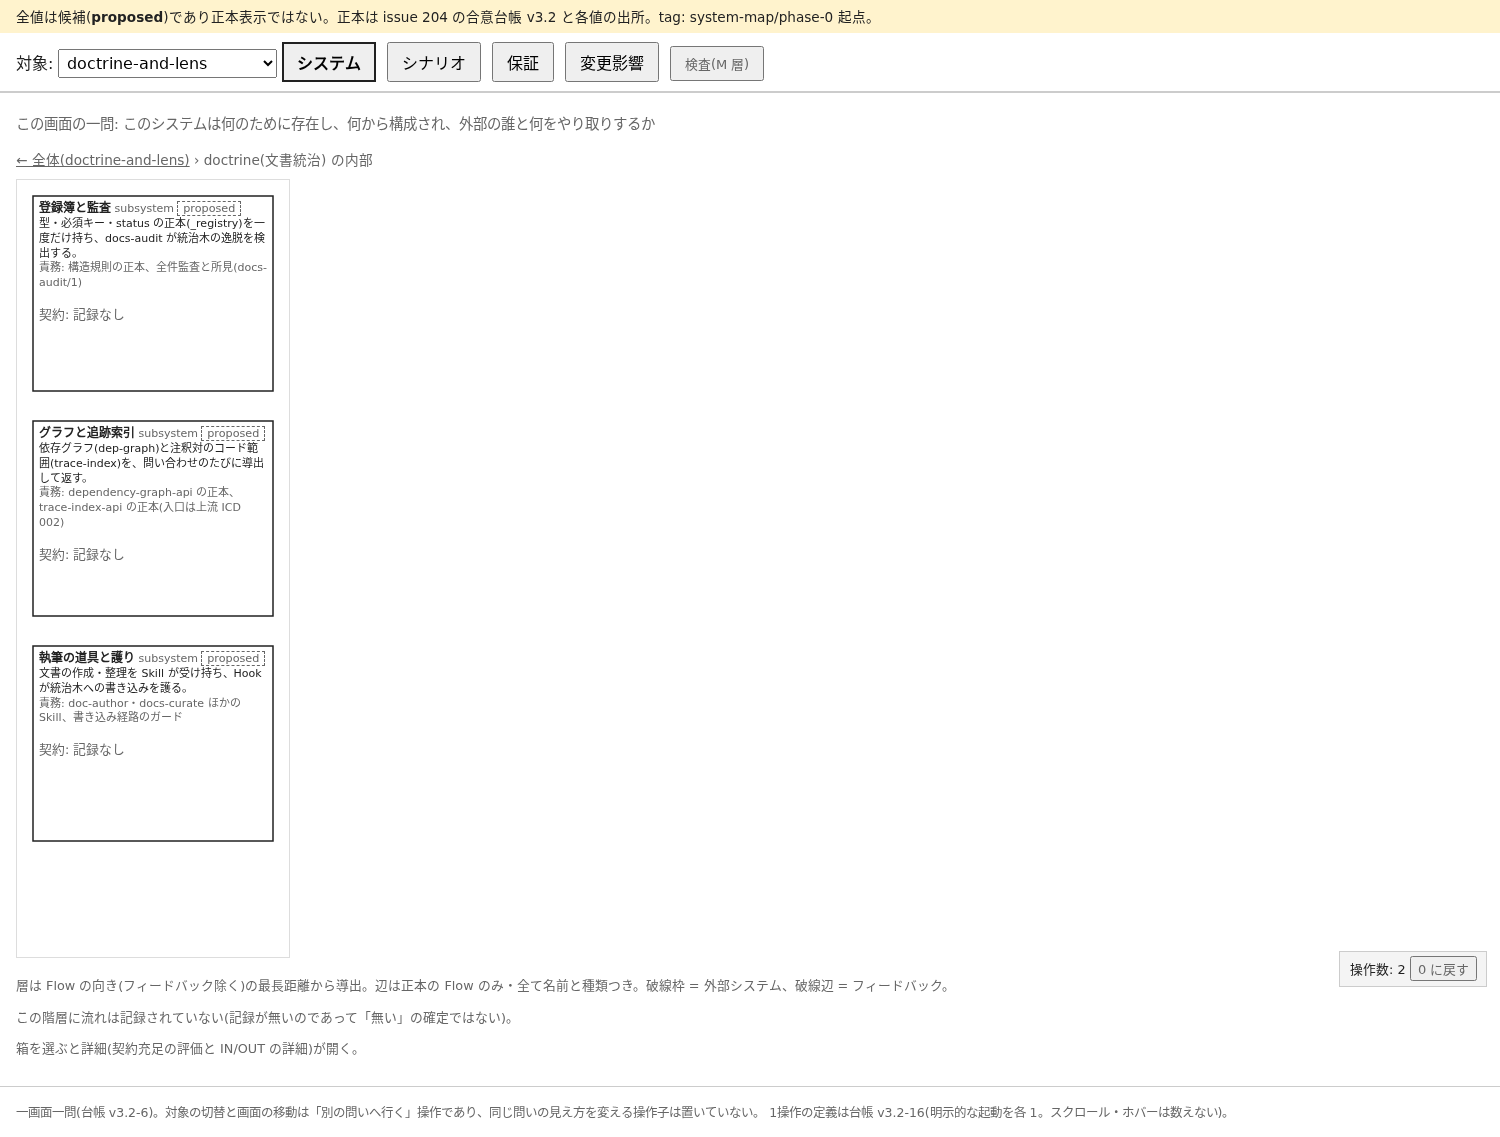
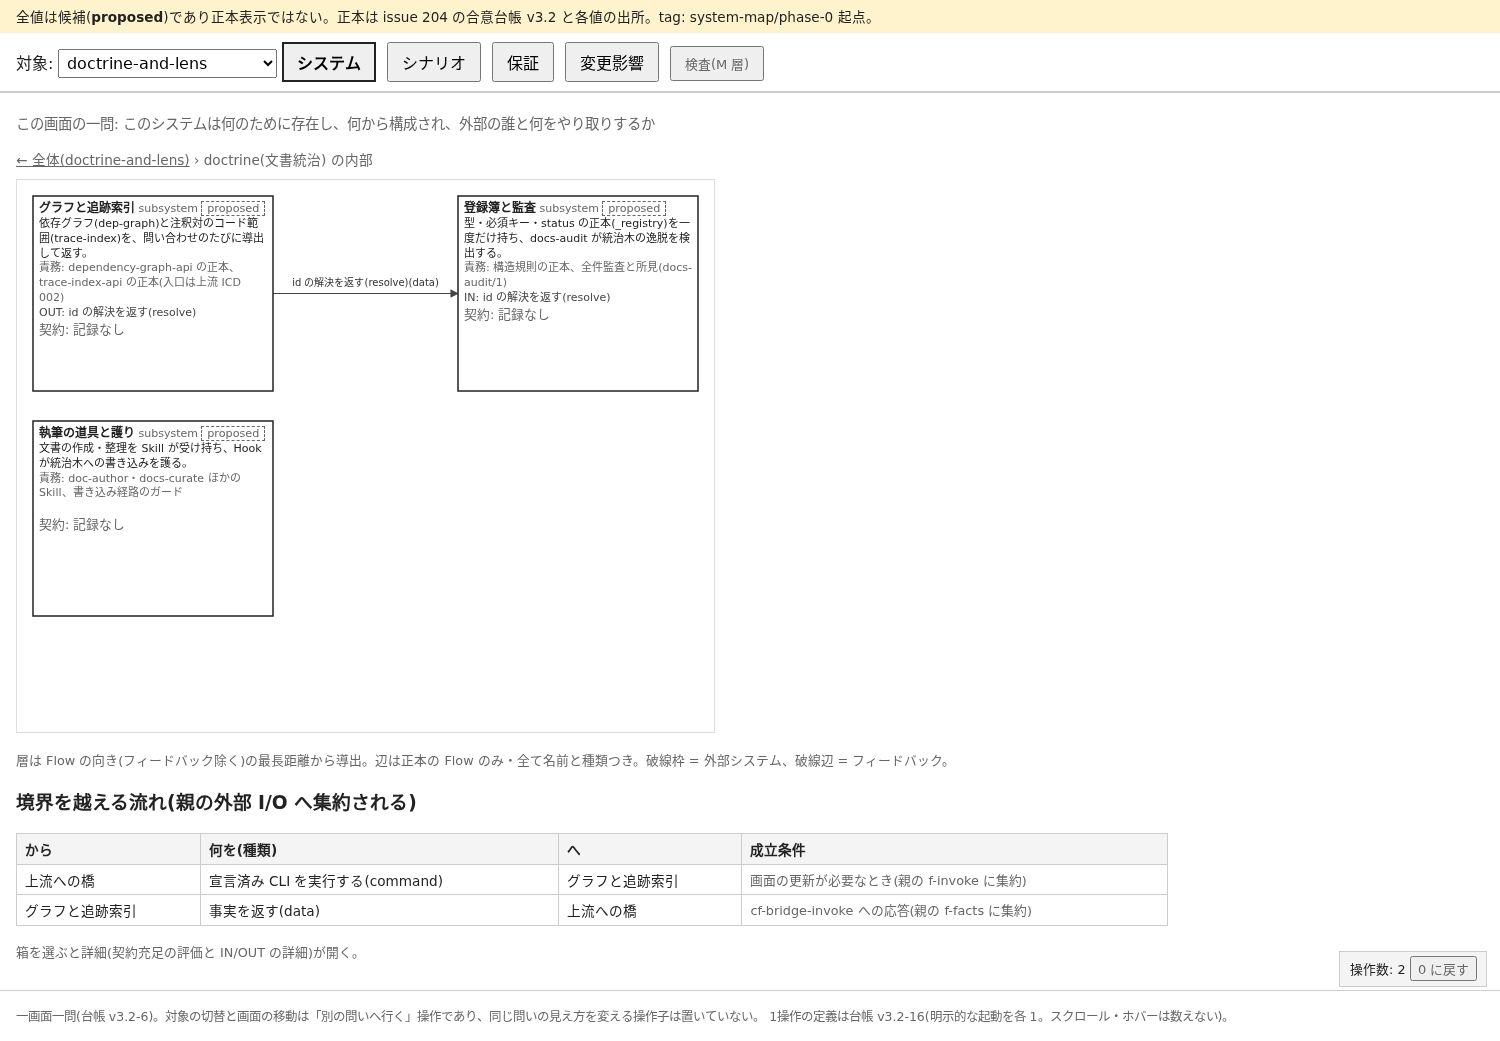
静止画を撮り直す(子階層の流れが載った版)

diff --git a/research/system-map/prototype/shots/README.md b/research/system-map/prototype/shots/README.md
@@ -1,6 +1,6 @@
 # 静止画(所有者の UIUX 確認用)
 
-撮影時点: commit `01e844d`(experiment/system-map)・2026-08-04。
+撮影時点: commit `e29b9ea`(experiment/system-map)・2026-08-04。
 **静止画は撮った時点の木でしか正しくない。** 模型や画面を変えたら撮り直す(build.mjs → shoot.mjs)。
 12〜14 番(旧 案A/案B 比較用)は、所有者判断(2026-08-04、構成図を採用)により役目を終えて削除した。
 
